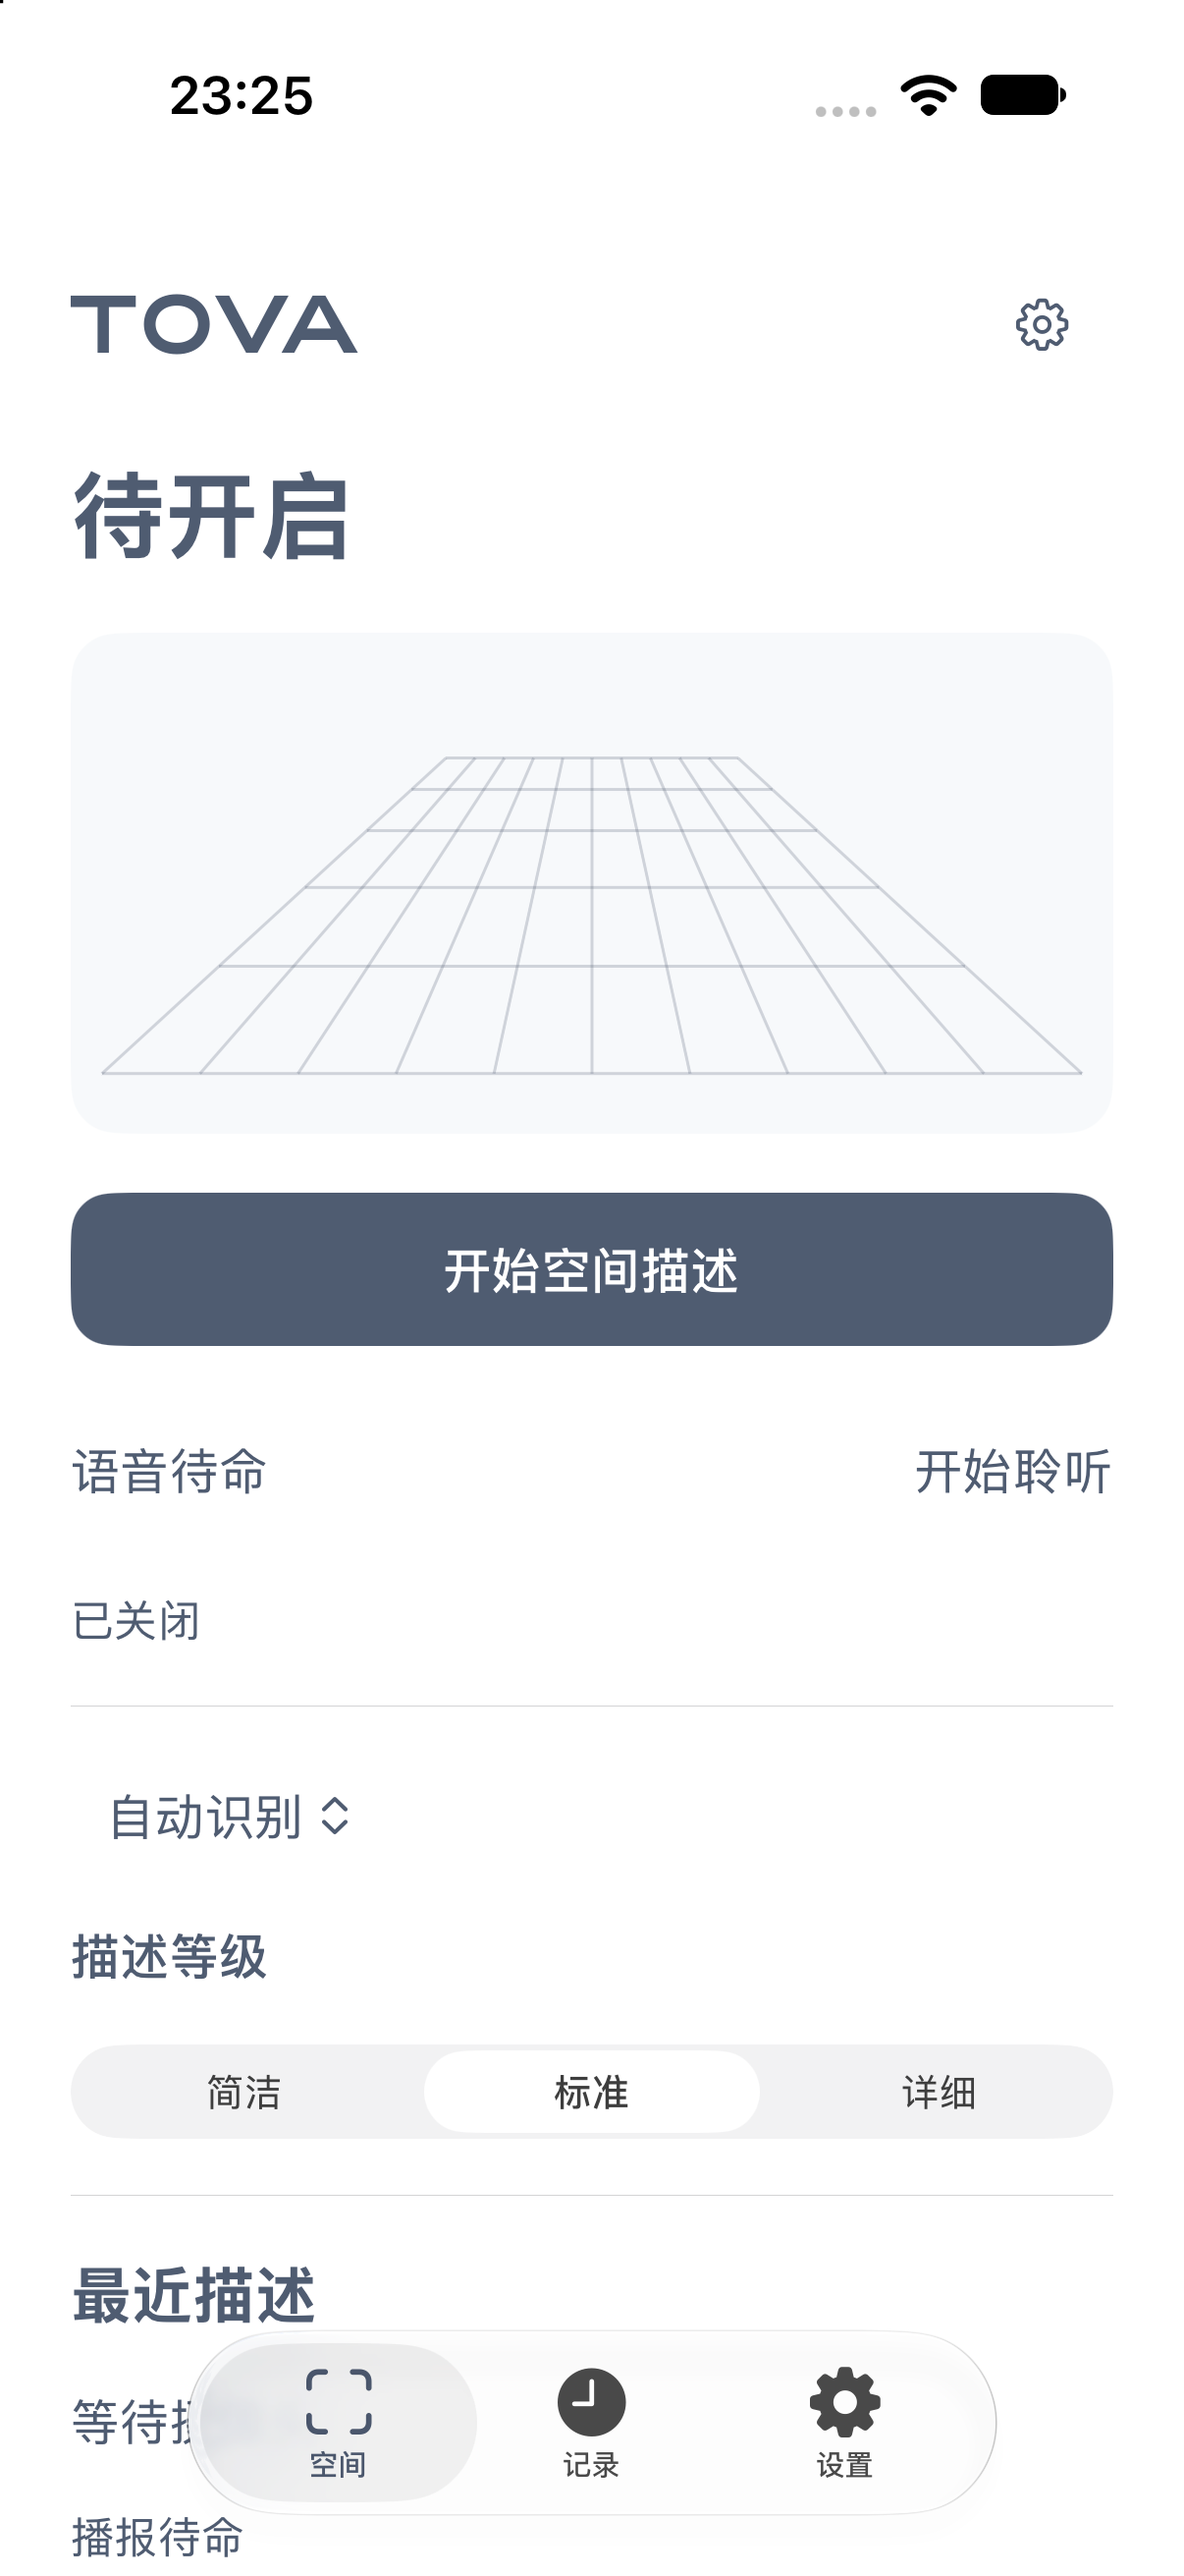
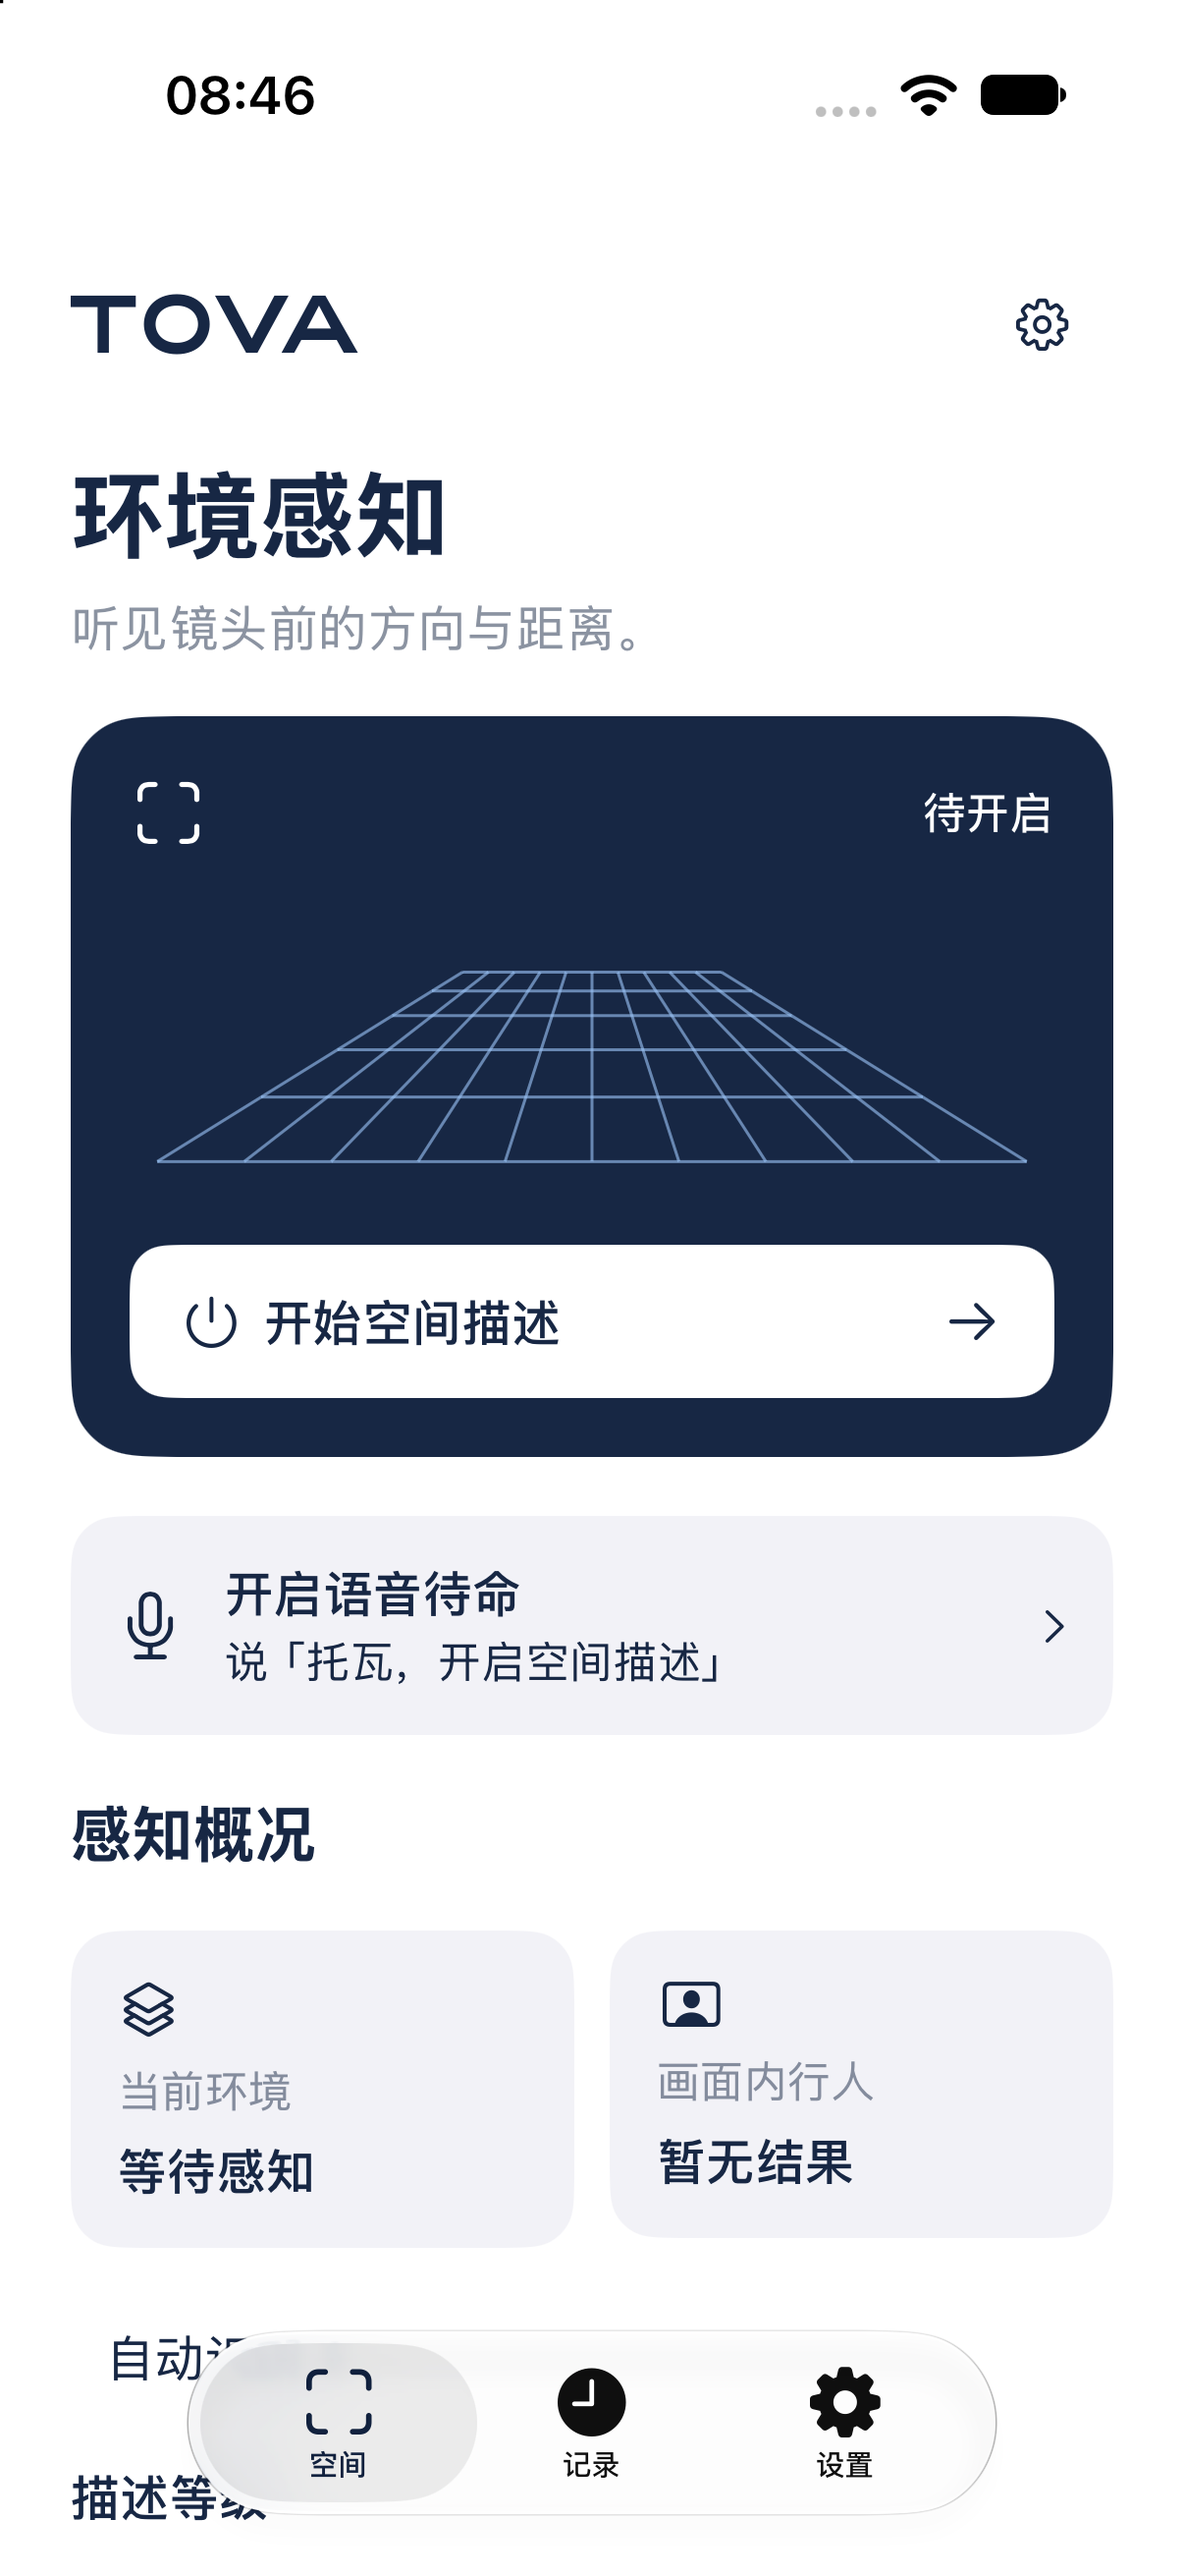
优化空间感知首页、语音入口和品牌层级

diff --git a/Sources/Workspace.swift b/Sources/Workspace.swift
@@ -86,23 +86,54 @@ struct Workspace: View {
                     Spacer()
                     Button { tab = 2 } label: { Image(systemName: "gearshape").frame(width: 48,height: 48) }.accessibilityLabel("打开设置")
                 }
-                Text(paused ? "感知已暂停" : engine.status).font(.largeTitle.bold()).accessibilityAddTraits(.isHeader)
-                if let frame = engine.preview {
-                    Image(decorative: frame, scale: 1).resizable().scaledToFill().frame(maxWidth: .infinity).frame(height: 200).clipped().accessibilityHidden(true)
-                } else { FieldDiagram().frame(height: 170).accessibilityHidden(true) }
-                Button(engine.running ? "关闭空间描述" : paused ? "恢复空间描述" : "开始空间描述") {
-                    paused = false
-                    if engine.running { engine.stop(); engine.say("空间描述已关闭") } else { engine.start() }
-                }.buttonStyle(PrimaryAction())
+                VStack(alignment: .leading, spacing: 8) {
+                    Text("环境感知").font(.largeTitle.bold())
+                    Text("听见镜头前的方向与距离。").font(.body).foregroundStyle(.secondary)
+                }
+                VStack(alignment: .leading, spacing: 16) {
+                    HStack {
+                        Image(systemName: "viewfinder").font(.title2).accessibilityHidden(true)
+                        Spacer()
+                        Text(paused ? "已暂停" : engine.status).font(.subheadline.weight(.medium))
+                    }.foregroundStyle(.white)
+                    if let frame = engine.preview {
+                        Image(decorative: frame, scale: 1).resizable().scaledToFit().frame(maxWidth: .infinity, maxHeight: 180).accessibilityHidden(true)
+                    } else { FieldDiagram().frame(height: 102).accessibilityHidden(true) }
+                    Button {
+                        paused = false
+                        if engine.running { engine.stop(); engine.say("空间描述已关闭") } else { engine.start() }
+                    } label: {
+                        HStack {
+                            Image(systemName: engine.running ? "stop.fill" : "power")
+                            Text(engine.running ? "关闭空间描述" : paused ? "恢复空间描述" : "开始空间描述").font(.headline)
+                            Spacer()
+                            Image(systemName: "arrow.right")
+                        }.padding(.horizontal, 18).frame(minHeight: 52)
+                        .foregroundStyle(navy).background(.white, in: RoundedRectangle(cornerRadius: 13))
+                    }.buttonStyle(.plain)
+                }.padding(20).background(navy, in: RoundedRectangle(cornerRadius: 24))
                 if engine.running || paused {
                     Button(paused ? "结束本次感知" : "暂停感知") {
                         paused = !paused
                         engine.stop()
                     }.frame(minHeight: 44)
                 }
-                HStack { Text("语音待命"); Spacer(); Button(voice.enabled ? "退出聆听" : "开始聆听") { toggleVoice() } }.frame(minHeight: 44)
-                Text(voice.status).font(.subheadline)
-                Divider()
+                Button { toggleVoice() } label: {
+                    HStack(spacing: 14) {
+                        Image(systemName: voice.enabled ? "waveform" : "mic").font(.title2)
+                        VStack(alignment: .leading, spacing: 4) {
+                            Text(voice.enabled ? "退出语音待命" : "开启语音待命").font(.headline)
+                            Text(voice.enabled ? voice.status : "说「托瓦，开启空间描述」").font(.subheadline)
+                        }
+                        Spacer()
+                        Image(systemName: "chevron.right").font(.footnote)
+                    }.padding(16).background(Color(.secondarySystemBackground), in: RoundedRectangle(cornerRadius: 16))
+                }.buttonStyle(.plain)
+                Text("感知概况").font(.title2.bold()).accessibilityAddTraits(.isHeader)
+                HStack(alignment: .top, spacing: 12) {
+                    SummaryTile(icon: "square.3.layers.3d", label: "当前环境", value: engine.updated == nil ? "等待感知" : engine.scene)
+                    SummaryTile(icon: "person.crop.rectangle", label: "画面内行人", value: engine.updated == nil ? "暂无结果" : "约 " + String(engine.positions.count) + " 人")
+                }
                 Picker("场景模式", selection: $engine.mode) { ForEach(["自动识别","室内","室外"], id: \.self) { Text($0) } }.pickerStyle(.menu)
                 Text("描述等级").font(.headline)
                 Picker("描述等级", selection: $engine.level) { ForEach(levels,id: \.self) { Text($0) } }.pickerStyle(.segmented)
@@ -120,15 +151,22 @@ struct Workspace: View {
     func toggleVoice() { if voice.enabled { voice.stop() } else { voice.start() } }
     var records: some View {
         List {
-            if history.isEmpty { ContentUnavailableView("还没有记录", systemImage: "clock", description: Text("开启空间描述后，可在这里回顾本机保存的感知结果。")) }
+            if history.isEmpty { ContentUnavailableView("还没有记录", systemImage: "square.3.layers.3d", description: Text("开启空间描述后，可在这里回顾本机保存的感知结果。")) }
             ForEach(history) { entry in VStack(alignment: .leading, spacing: 8) {
                 Text(entry.time.formatted() + " · " + entry.scene).font(.subheadline)
                 Text(entry.message)
             } }.onDelete { offsets in var list = history; list.remove(atOffsets: offsets); save(list) }
-        }.navigationTitle("记录").toolbar { if !history.isEmpty { EditButton() } }
+        }.navigationTitle("感知记录").toolbar { if !history.isEmpty { EditButton() } }
     }
     var settings: some View {
         Form {
+            HStack(spacing: 16) {
+                Image(systemName: "viewfinder").font(.title).foregroundStyle(.white).frame(width: 56,height: 56).background(navy,in: RoundedRectangle(cornerRadius: 16))
+                VStack(alignment: .leading, spacing: 6) {
+                    Image("Wordmark").resizable().scaledToFit().frame(width: 88).accessibilityLabel("TOVA")
+                    Text("空间感知与语音偏好").font(.subheadline).foregroundStyle(.secondary)
+                }
+            }.padding(.vertical, 8)
             Section("语音与音频") {
                 Button(voice.enabled ? "退出语音待命" : "开启语音待命") { toggleVoice() }
                 Toggle("语音播报", isOn: $speech)
@@ -161,7 +199,7 @@ struct FieldDiagram: View {
             let w = size.width, h = size.height
             func line(_ a: CGPoint, _ b: CGPoint) {
                 var path = Path(); path.move(to: a); path.addLine(to: b)
-                context.stroke(path, with: .color(navy.opacity(0.24)), lineWidth: 1)
+                context.stroke(path, with: .color(Color(red: 0.60, green: 0.76, blue: 0.96).opacity(0.62)), lineWidth: 1)
             }
             for i in -5...5 {
                 let n = CGFloat(i)
@@ -171,6 +209,22 @@ struct FieldDiagram: View {
                 let spread = w*(0.14+0.33*t), y = h*(0.25+0.63*t)
                 line(CGPoint(x:w/2-spread,y:y),CGPoint(x:w/2+spread,y:y))
             }
-        }.background(Color(red: 0.96, green: 0.97, blue: 0.98), in: RoundedRectangle(cornerRadius: 16))
+        }
+    }
+}
+
+private struct SummaryTile: View {
+    let icon: String
+    let label: String
+    let value: String
+
+    var body: some View {
+        VStack(alignment: .leading, spacing: 8) {
+            Image(systemName: icon).accessibilityHidden(true)
+            Text(label).font(.subheadline).foregroundStyle(.secondary)
+            Text(value).font(.headline)
+        }.frame(maxWidth: .infinity, alignment: .leading).padding(16)
+        .background(Color(.secondarySystemBackground), in: RoundedRectangle(cornerRadius: 16))
+        .accessibilityElement(children: .combine)
     }
 }

diff --git a/DEVELOPMENT_LOG.md b/DEVELOPMENT_LOG.md
@@ -14,3 +14,6 @@
 
 ## 本轮验证
 iPhoneOS 无签名构建及 iPhone 18 Pro 模拟器构建成功。实际启动后检查了欢迎页与空间首页，截图位于 Documentation。53 项命令、场景及测距断言通过。其余页面的多尺寸验收、真机链路、实地场景和性能数据待测。签名检查返回零个可用开发身份。旧版仍在手机上。
+
+## 2026-11-26
+依据用户提供的四张旧版截图重排感知首页。深海军蓝取景区集中承载摄像头状态和启停，语音待命独立于采集；感知概况只展示当次结果。统一设置页品牌标识与记录页空状态。新首页已在模拟器安装、启动并截图检查。深度算法留到下一阶段。
